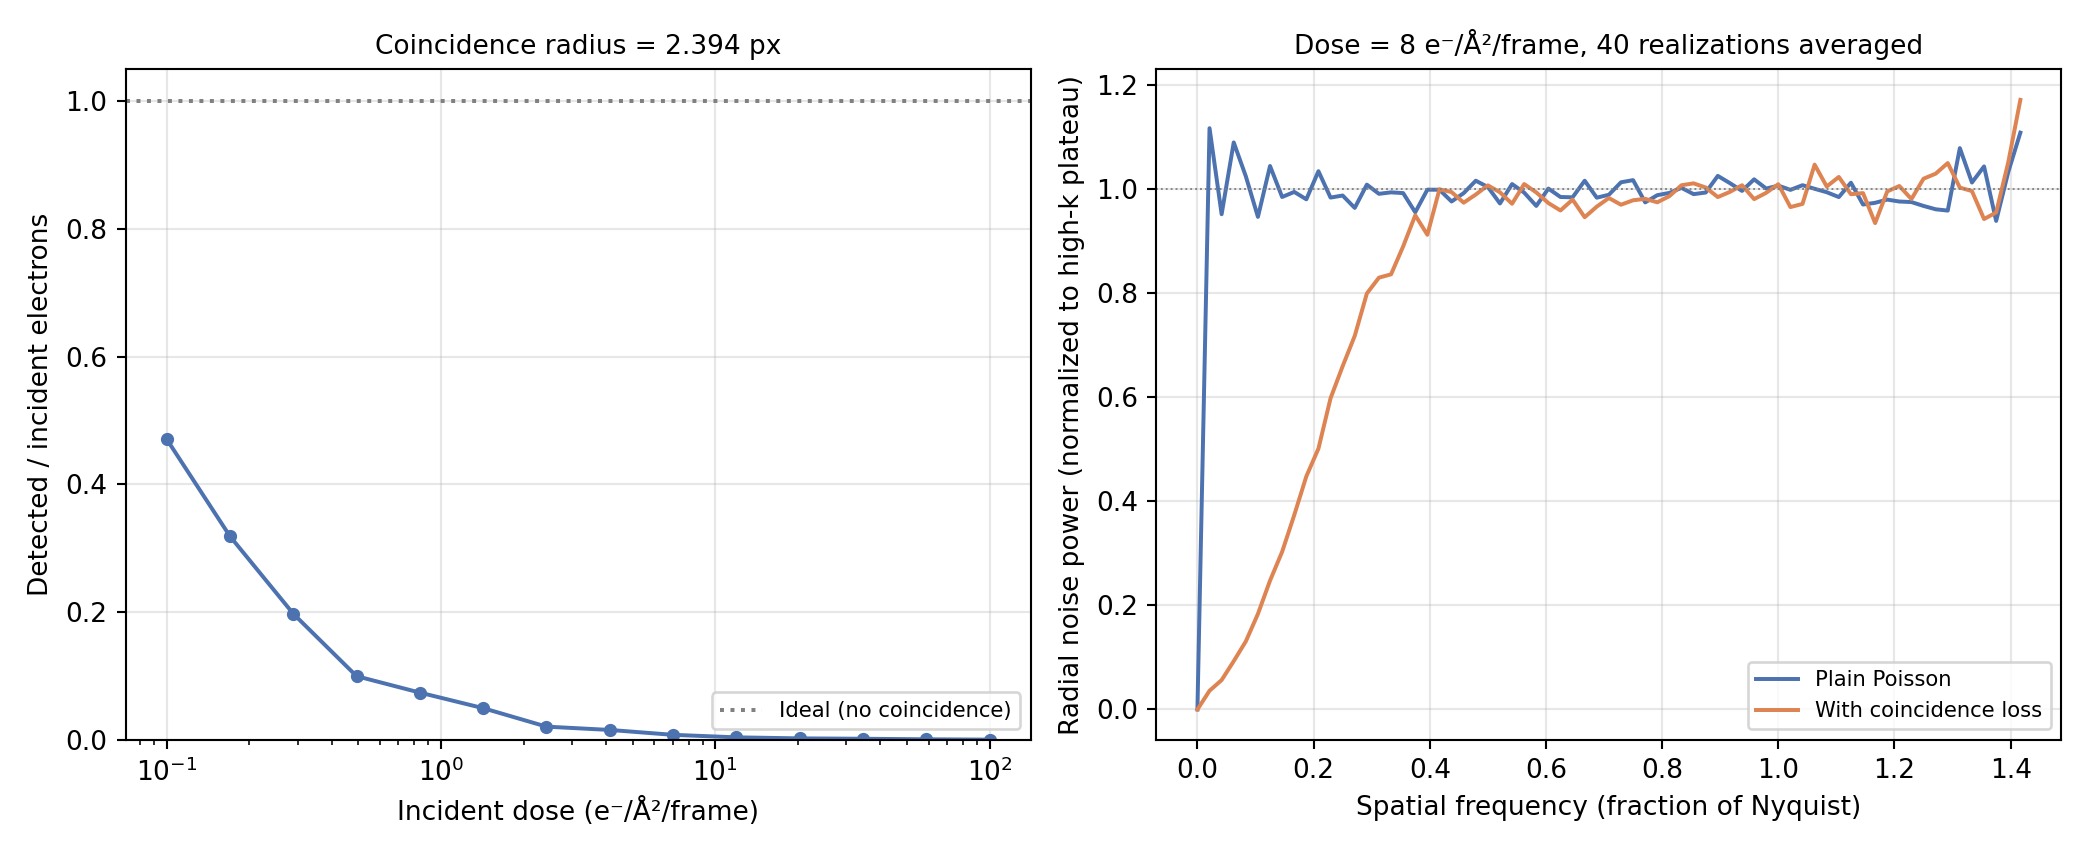
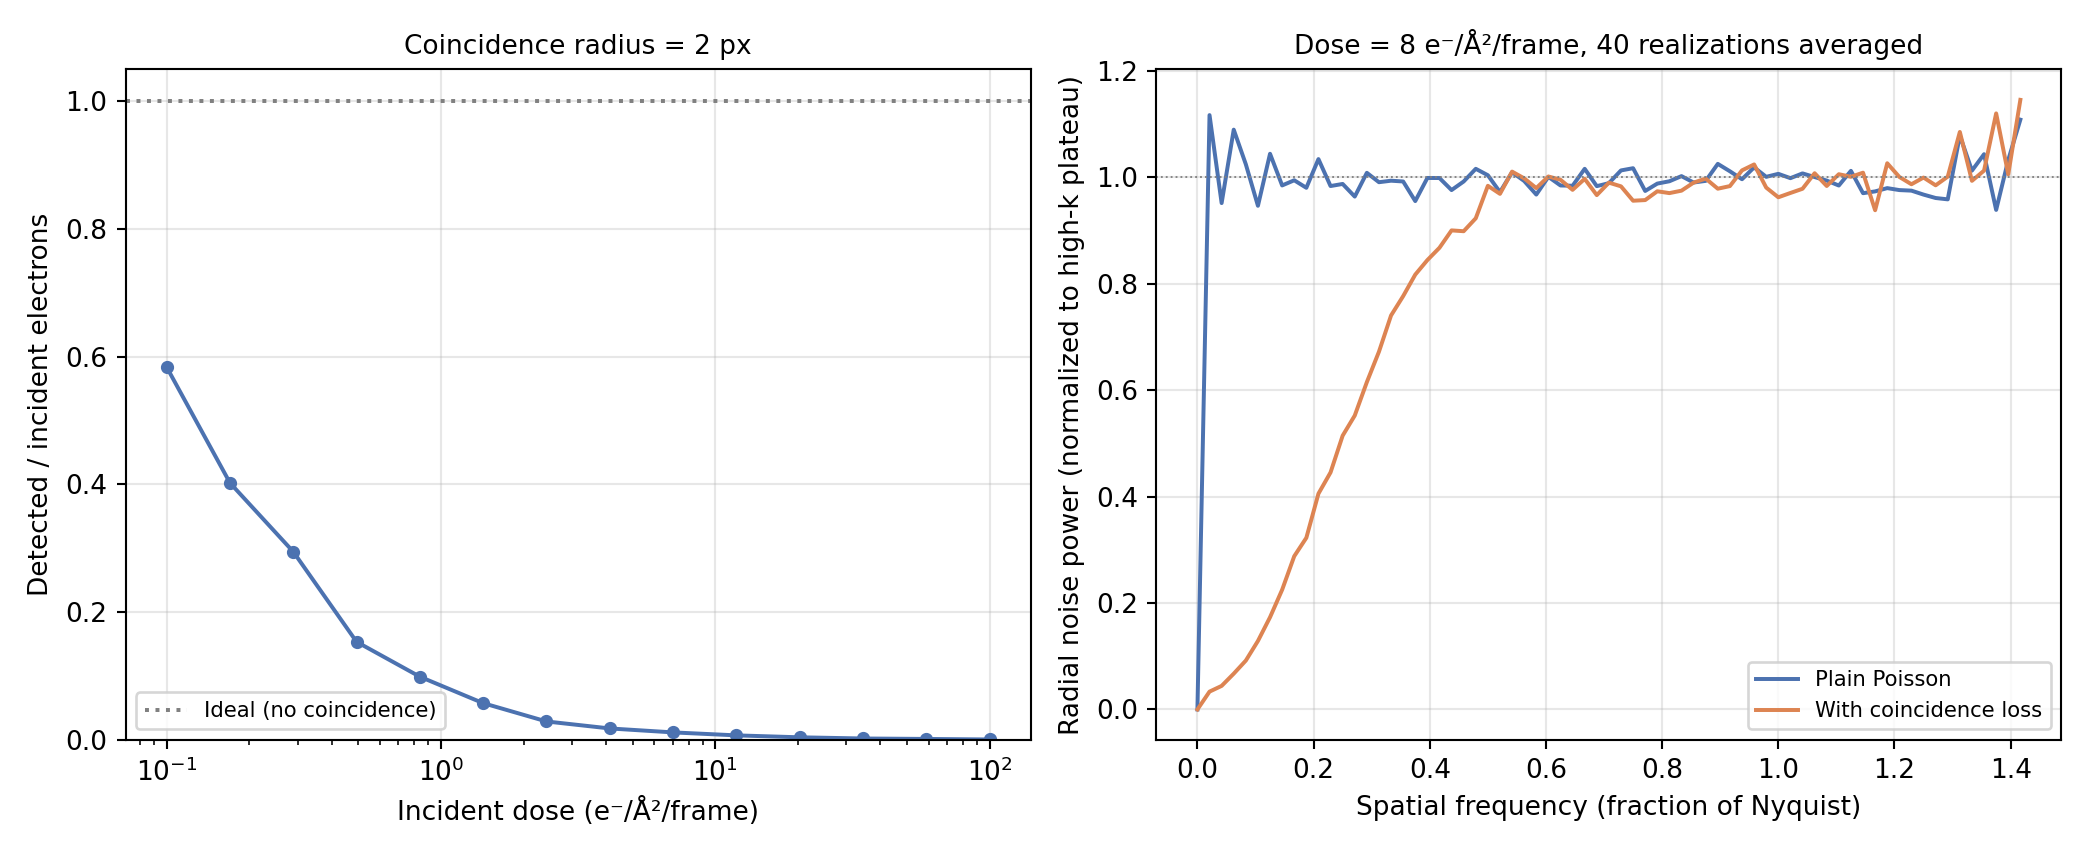
Pin the Falcon 4i coincidence radius to one definition
The 2.0 px exclusion radius is now read from EXCLUSION_RADIUS_PX wherever a
figure or example needs it; the detector concept figure had still been drawn
at a superseded 2.394 px. The catalogue comment, the apply_coincidence notes
and the detector concept page state how the value is measured: the
low-frequency noise power of flat illumination, divided by the mean count,
is 1 - pi r^2 m, which gives the radius without the reported dose. A test
holds the model to that relation. The walkthrough caption notes that its
counted fraction excludes DQE(0).

diff --git a/src/specter/detectors/_detector.py b/src/specter/detectors/_detector.py
@@ -758,18 +758,21 @@ class Detector(DeviceModule):
         Notes
         -----
         Calibrated against beam-only Falcon 4i micrographs spanning
-        0.15-31.29 e-/px/s, with the detector's counting efficiency modelled
-        explicitly as ``dqe0=0.92``: ``coincidence_radius = 2.0`` px (~28 um
-        at the 4096^2 sensor's 14 um pitch) reproduces the measured
-        detected-electron yield to ~3% RMSE across the full dose range,
-        together with the characteristic low-spatial-frequency dip in the
-        power spectrum (``manuscript/coincidence-loss-exp.ipynb``). An
-        earlier fit of 2.394 px was made without DQE(0) and absorbed that
-        ~8% loss into the radius; using it together with ``dqe0=0.92`` counts
-        the loss twice. The radius is a property of the camera unit and its
-        counting configuration, so treat this value as a prior and
-        re-calibrate from beam-only or empty-ice frames when a dataset
-        provides them.
+        0.15-31.29 e-/px/s: ``coincidence_radius = 2.0`` px (28 um at the
+        4096^2 sensor's 14 um pitch), listed as
+        ``specter.detectors.EXCLUSION_RADIUS_PX["falcon4i_300kv"]``. The
+        radius follows from the noise power spectrum alone. For flat
+        illumination the low-frequency noise power divided by the mean count
+        is ``1 - pi * r**2 * m``, with ``m`` the counts per pixel per frame,
+        and the measured spectra give ``r = 2.0`` px independently of the
+        reported dose. With the counting efficiency modelled explicitly as
+        ``dqe0=0.92``, the same radius reproduces the detected-electron yield
+        to ~3% RMSE across the full dose range
+        (``manuscript/coincidence-loss-exp.ipynb``). The radius was fitted
+        with DQE(0) applied separately and must be used with it. The radius
+        is a property of the camera unit and its counting configuration, so
+        treat this value as a prior and re-calibrate from beam-only or
+        empty-ice frames when a dataset provides them.
 
         This is a deliberately simplified, *locally bounded* model: exclusion
         is resolved per grid cell, so coincidence cannot chain transitively

diff --git a/docs-figures/walkthrough/detection.py b/docs-figures/walkthrough/detection.py
@@ -122,7 +122,12 @@ save(fig, "detection-detectors")
 
 transcript.start("coincidence")
 # --8<-- [start:coincidence]
-from specter.detectors import coincidence_occupancy, coincidence_radius_for_simulation
+from specter.detectors import (
+    EXCLUSION_RADIUS_PX,
+    HARDWARE_FRAME_RATE_HZ,
+    coincidence_occupancy,
+    coincidence_radius_for_simulation,
+)
 from specter.imaging import Image
 
 # Uniform illumination: 16 empty images at the vacuum intensity of 1.
@@ -134,10 +139,13 @@ flat = Image(
     ids=torch.arange(16),
 )
 exposure = Exposure(dose=40.0, n_frames=40)
+camera = "falcon4i_300kv"
+exclusion_px = EXCLUSION_RADIUS_PX[camera]  # 2.0 physical pixels
+frame_rate = HARDWARE_FRAME_RATE_HZ[camera]  # 320 Hz
 
 recorded = {}
 for rate in [0.0, 4.0, 16.0]:  # e⁻ per physical pixel per second
-    occupancy = coincidence_occupancy(2.0, rate, frame_rate_hz=320.0)  # Falcon 4i
+    occupancy = coincidence_occupancy(exclusion_px, rate, frame_rate_hz=frame_rate)
     radius = coincidence_radius_for_simulation(occupancy, 40.0, 1.0, 40)
     recorded[rate] = flat.detect(exposure, coincidence_radius=radius, seed=0).array
     kept = recorded[rate].mean() / 40.0
@@ -148,7 +156,10 @@ rates = [0.25, 0.5, 1.0, 2.0, 4.0, 8.0, 16.0, 32.0]
 counted = []
 for rate in rates:
     radius = coincidence_radius_for_simulation(
-        coincidence_occupancy(2.0, rate, frame_rate_hz=320.0), 40.0, 1.0, 40
+        coincidence_occupancy(exclusion_px, rate, frame_rate_hz=frame_rate),
+        40.0,
+        1.0,
+        40,
     )
     counted.append(
         float(flat.detect(exposure, coincidence_radius=radius, seed=0).array.mean())
@@ -167,7 +178,7 @@ ax1.semilogx(rates, counted, "o-", color=PALETTE[0], lw=1.2, ms=4)
 ax1.set(
     xlabel="Dose rate (e⁻/physical px/s)",
     ylabel="Fraction counted",
-    title="Falcon 4i, 2.0 px exclusion, 320 Hz",
+    title=f"Falcon 4i, {exclusion_px:.1f} px exclusion, {frame_rate:.0f} Hz",
     ylim=(0, 1.05),
 )
 for color, (rate, stack) in zip(PALETTE, recorded.items()):

diff --git a/tests/test_detector_coincidence.py b/tests/test_detector_coincidence.py
@@ -437,3 +437,29 @@ def test_mtf_is_float32_and_one_curve_on_both_paths(preset: str) -> None:
     via_physical = detector_mtf(preset, 64, 1.0, physical_pixel_size=1.0 + 1e-9)
     assert native.dtype == via_physical.dtype == torch.float32
     assert float((native - via_physical).abs().max()) < 5e-3
+
+
+def test_low_frequency_noise_power_gives_the_exclusion_area() -> None:
+    """
+    For flat illumination the noise power at low spatial frequency, divided by
+    the mean count, is ``1 - pi r^2 m`` with ``m`` the counts per pixel per
+    frame: each exclusion cell records at most one electron, so its count is
+    Bernoulli and the variance of a large region falls below Poisson by the
+    cell's occupancy. This is the relation the shipped Falcon 4i radius was
+    measured with, so the model must satisfy it.
+    """
+    radius, size, n_frames, incident = 2.0, 512, 64, 0.05
+    detector = Detector(
+        pixel_size=1.0, noise_model="poisson", n_frames=n_frames, progressbars=False
+    )
+    torch.manual_seed(0)
+    img = detector.apply_coincidence(
+        torch.full((size, size), incident * n_frames), 0.0, radius
+    ).double()
+    counts_per_frame = img.mean().item() / n_frames
+    power = torch.fft.fft2(img - img.mean()).abs() ** 2 / size**2 / img.mean()
+    freq = torch.fft.fftfreq(size)
+    k = torch.sqrt(freq[:, None] ** 2 + freq[None, :] ** 2)
+    low = power[(k > 0) & (k < 0.03)].mean().item()
+    assert low == pytest.approx(1 - math.pi * radius**2 * counts_per_frame, abs=0.07)
+    assert power[k > 0.4].mean().item() == pytest.approx(1.0, abs=0.03)

diff --git a/src/specter/detectors/_catalogue.py b/src/specter/detectors/_catalogue.py
@@ -762,8 +762,13 @@ def dqe0_for_detector(detector_model: str | None) -> float:
 #: entries with a traceable measurement are listed; a model absent here has no
 #: calibration, and callers should say so rather than borrow a neighbour's.
 EXCLUSION_RADIUS_PX: dict[str, float] = {
-    # Fitted against 14 beam-only EER acquisitions spanning 0.15-31 e/px/s with
-    # DQE(0)=0.92 modelled explicitly (manuscript/coincidence-loss-exp.ipynb).
+    # Measured on 14 beam-only EER acquisitions spanning 0.15-31 e/px/s. The
+    # low-frequency noise power of flat illumination, divided by the mean
+    # count, is 1 - pi r^2 m with m the counts per pixel per frame, which gives
+    # r = 2.0 px without reference to the reported dose. With DQE(0) = 0.92
+    # modelled explicitly the same radius reproduces the detected yield to
+    # ~3% RMSE (manuscript/coincidence-loss-exp.ipynb). This is the single
+    # definition of the value: code, figures and examples read it from here.
     "falcon4i_300kv": 2.0,
     # Campbell et al. 2015 (eLife 4:e06380): ~12 e/physical px/s incident
     # recorded as ~9 counts/px/s, a 25% loss at 400 fps, inverted through

diff --git a/docs-figures/detector.py b/docs-figures/detector.py
@@ -24,6 +24,7 @@ import torch
 from specter.arrays import radial_profile_2d
 from specter.detectors import (
     DQE0,
+    EXCLUSION_RADIUS_PX,
     dqe0_for_detector,
     falcon3ec_300kv,
     falcon4i_200kv,
@@ -136,7 +137,8 @@ def figure_coincidence_loss() -> None:
     statistics themselves."""
     pixel_size = 1.0
     h = w = 96
-    coinc_radius = 2.394  # px, Falcon 4i calibration (see Detector.apply_coincidence)
+    # px, the Falcon 4i calibration (see Detector.apply_coincidence)
+    coinc_radius = EXCLUSION_RADIUS_PX["falcon4i_300kv"]
     intensity_map = torch.ones(h, w) / (h * w)
     detector = Detector(pixel_size)
 

diff --git a/docs/concepts/detector.md b/docs/concepts/detector.md
@@ -136,9 +136,13 @@ Two consequences of the same mechanism. On the left, detected efficiency
 drops fast with incident dose rate: more electrons arriving in the same
 frame means more of them land in an already-occupied cell. The exclusion
 radius of the Falcon 4i at 300 kV is calibrated at 2.0 physical pixels
-against real beam-only micrographs spanning 0.15-31.29 e⁻/px/s, with the
-counting efficiency DQE(0) = 0.92 modelled explicitly, reproducing the
-measured detected-electron yield to ~3% RMSE. The K2 Summit's 2.54 physical
+against beam-only micrographs spanning 0.15-31.29 e⁻/px/s. The value is
+obtained from the noise power spectrum alone: for flat illumination the
+low-frequency noise power divided by the mean count equals
+\(1 - \pi r^2 m\), with \(m\) the counts per pixel per frame, which gives
+2.0 px without reference to the reported dose. With the counting efficiency
+DQE(0) = 0.92 modelled explicitly, the same radius reproduces the measured
+detected-electron yield to ~3% RMSE. The K2 Summit's 2.54 physical
 pixels is obtained by inverting the same model against Campbell et al.
 (2015)'s measurement of a 25% loss at ~12 e⁻/px/s and 400 frames per second
 (Li, Mooney et al. 2013).

diff --git a/docs/walkthrough/detection.md b/docs/walkthrough/detection.md
@@ -161,7 +161,9 @@ exclusion cell per frame
 Left: the fraction of incident electrons counted, for a Falcon 4i's 2.0 px
 exclusion radius at 320 frames per second (Thermo Fisher Scientific 2022),
 simulated at 1 Å, 40 e⁻/Å² and 40 frames. It falls from 99.5% at
-0.25 e⁻/px/s to 57% at 32 e⁻/px/s.
+0.25 e⁻/px/s to 57% at 32 e⁻/px/s. The fraction is the coincidence loss
+alone. A detector's DQE(0) lowers the count further, by a factor of 0.92 for
+the Falcon 4i.
 Right: the noise power spectrum of the flat images, divided by the mean
 count, so that plain Poisson noise sits at 1.
 ///
